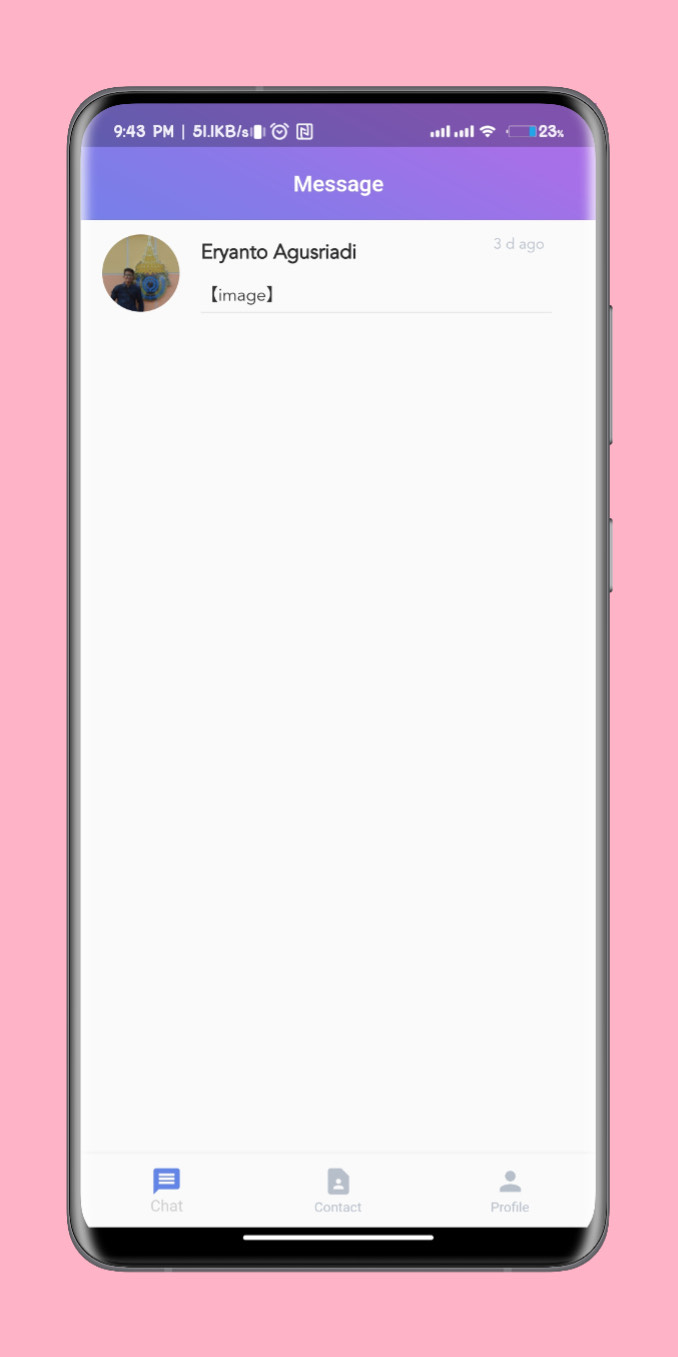
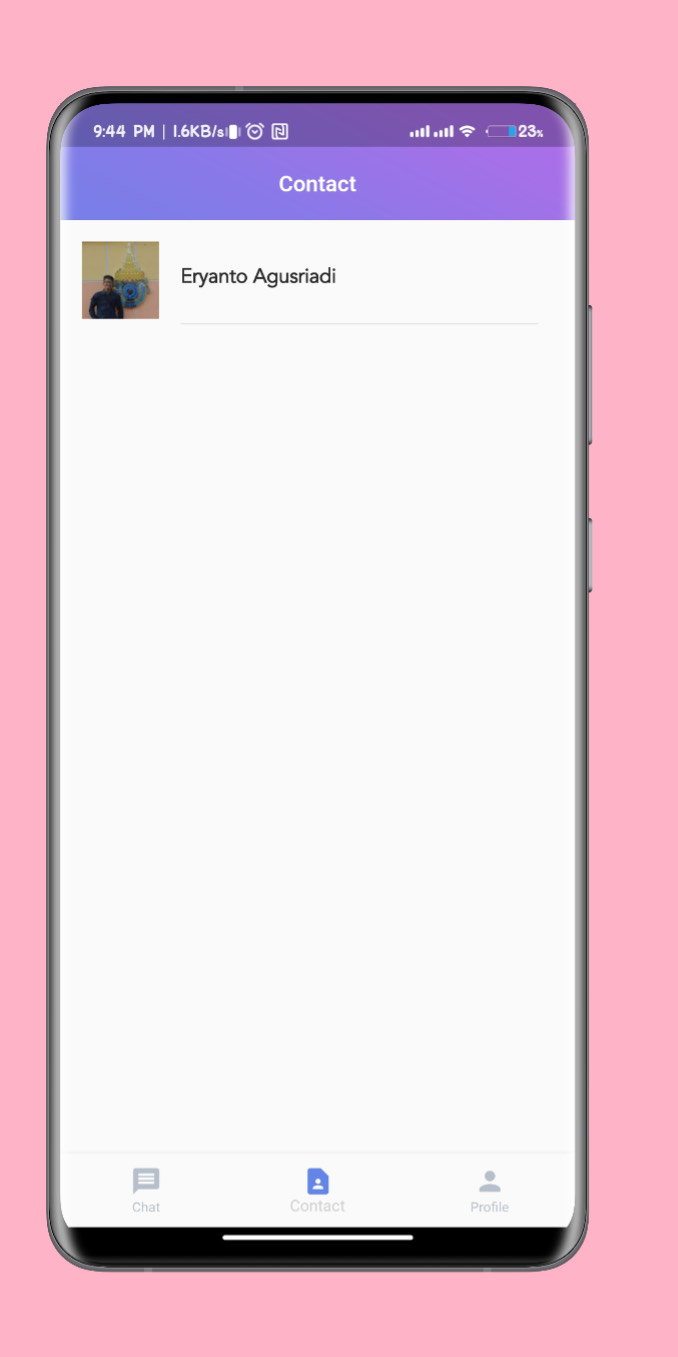
Drop a repeated screenshot, and stop claiming dark mode
The Chatting gallery showed the same Message screen twice: 01.jpg and
02.jpg were byte-identical. The app cannot be re-run to capture a
replacement, so the copy goes and the remaining shots renumber — three
screens, each a different one. A gallery's length was never a claim
(ADR 0003), but showing one screen twice reads as padding.

Furniture Store claimed light and dark mode. Nothing on this site shows
it: the cover collage is light on every app screen, and the only dark
surface anywhere is the splash. The claim is gone from the card and the
gallery. What stays is what the cover actually shows — search, category
browsing, the wishlist in the profile menu, and the colour swatches on
the product page.

The gallery's five screenshots are the entry flow, not the catalogue, so
its sentence now names that flow first instead of describing a catalogue
the reader is about to not see.

diff --git a/gallery.html b/gallery.html
@@ -661,17 +661,10 @@
             width="678"
             height="1357"
             loading="lazy"
-            alt="Halaman Message: satu percakapan dengan cuplikan kiriman gambar dan waktu pesan terakhir"
-          />
-          <img
-            src="img/projects/p-chatting/03.jpg"
-            width="678"
-            height="1357"
-            loading="lazy"
             alt="Halaman Contact: daftar kontak berisi satu pengguna beserta fotonya"
           />
           <img
-            src="img/projects/p-chatting/04.jpg"
+            src="img/projects/p-chatting/03.jpg"
             width="678"
             height="1357"
             loading="lazy"
@@ -817,8 +810,8 @@
           Furniture Store
         </h2>
         <p style="color: var(--ink-2); max-width: 62ch">
-          Katalog furnitur: pencarian, kategori, wishlist, pilihan warna, serta
-          mode terang dan gelap.
+          Katalog furnitur: alur pembuka dan masuk akun, lalu pencarian, kategori,
+          wishlist, dan pilihan warna produk.
         </p>
         <p class="origin">
           Catatan asal-usul: dibangun mengikuti kelas BuildWithAngga.

diff --git a/en/gallery.html b/en/gallery.html
@@ -661,17 +661,10 @@
             width="678"
             height="1357"
             loading="lazy"
-            alt="Message page: one conversation showing an image attachment and when it was last sent"
-          />
-          <img
-            src="../img/projects/p-chatting/03.jpg"
-            width="678"
-            height="1357"
-            loading="lazy"
             alt="Contact page: the contact list with a single user and their photo"
           />
           <img
-            src="../img/projects/p-chatting/04.jpg"
+            src="../img/projects/p-chatting/03.jpg"
             width="678"
             height="1357"
             loading="lazy"
@@ -817,8 +810,8 @@
           Furniture Store
         </h2>
         <p style="color: var(--ink-2); max-width: 62ch">
-          Furniture catalogue: search, categories, wishlist, colour options, and
-          light/dark mode.
+          Furniture catalogue: onboarding and sign-in, then search, categories, a
+          wishlist, and product colour options.
         </p>
         <p class="origin">
           Origin: built by following a BuildWithAngga course.

diff --git a/en/projects.html b/en/projects.html
@@ -568,8 +568,8 @@
               <span class="badge">INDEPENDENT PROJECT</span>
               <h3><a href="gallery.html#p-furniture">Furniture Store</a></h3>
               <p>
-                Furniture catalogue: search, categories, wishlist and light/dark
-                mode.
+                Furniture catalogue: search, categories, a wishlist and product colour
+                options.
               </p>
               <p class="tech">Flutter</p>
               <p class="origin">

diff --git a/projects.html b/projects.html
@@ -584,8 +584,8 @@
               <span class="badge">PROJECT MANDIRI</span>
               <h3><a href="gallery.html#p-furniture">Furniture Store</a></h3>
               <p>
-                Katalog furnitur: pencarian, kategori, wishlist, dan mode
-                terang/gelap.
+                Katalog furnitur: pencarian, kategori, wishlist, dan pilihan warna
+                produk.
               </p>
               <p class="tech">Flutter</p>
               <p class="origin">
